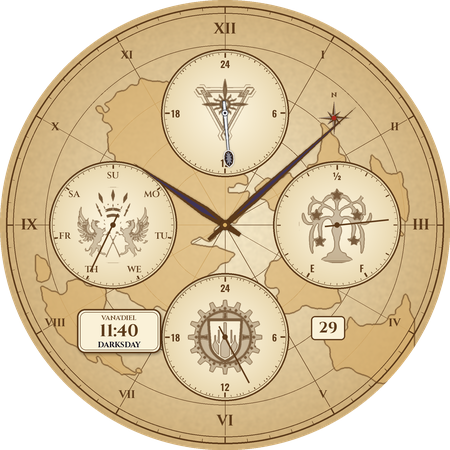
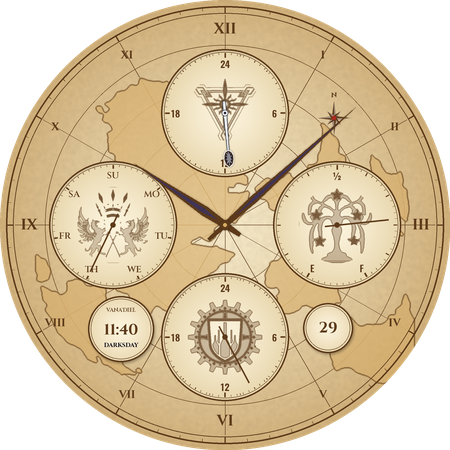
Watch face: rename the parchment style to Canvas; round medallions
The 7:30 Vana'diel time box was a rectangle crowding the sub-dials;
Vana'diel time and weekday now sit in a round parchment medallion that
matches the dials, mirrored by a medallion round the 4:30 date.

Claude-Session: https://claude.ai/code/session_01DhcV9kAg7FMXufVfZQP7Ta

Changed region(s): [[0.1556, 0.6533, 0.3733, 0.8089], [0.6533, 0.6533, 0.8089, 0.8089]]

diff --git a/ffxi-watchface/tools/generate_assets.py b/ffxi-watchface/tools/generate_assets.py
@@ -728,7 +728,8 @@ def colorize(img, tones):
     return Image.fromarray(np.dstack([rgb, a[..., 3]]).astype(np.uint8), 'RGBA')
 
 
-VANA_BOX = (77, 309, 161, 353)     # 7:30 cartouche: Vana'diel time and weekday
+VANA_MEDAL = (121, 329, 33)        # 7:30 medallion (x, y, r): Vana'diel time and weekday
+DATE_MEDAL_R = 25                   # matching medallion round the 4:30 date
 
 
 def parchment(size):
@@ -756,16 +757,6 @@ def compass_rose(img, cx, cy, r, color):
         d.polygon([tip, side_r, (cx, cy)], fill=tuple(int(c * 0.6 + 255 * 0.4) for c in color) + (255,))
     d.ellipse([cx - r * 0.12, cy - r * 0.12, cx + r * 0.12, cy + r * 0.12], fill=(170, 40, 30, 255))
     text_c(d, polar(r + s(6), 0, cx, cy), 'N', font(FONT_SERIF, 7), color)
-
-
-def cartouche(img, box, fill, line):
-    x0, y0, x1, y1 = (s(v) for v in box)
-    m = Image.new('L', img.size, 0)
-    ImageDraw.Draw(m).rounded_rectangle([x0, y0, x1, y1], radius=s(8), fill=255)
-    drop_shadow(img, m, blur=1.4, alpha=0.35)
-    d = ImageDraw.Draw(img)
-    d.rounded_rectangle([x0, y0, x1, y1], radius=s(8), fill=fill + (255,), outline=line + (255,), width=round(s(1.4)))
-    d.rounded_rectangle([x0 + s(3), y0 + s(3), x1 - s(3), y1 - s(3)], radius=s(6), outline=line + (255,), width=round(s(0.6)))
 
 
 def parchment_subdial(img, key, centre, scale, ambient=False):
@@ -797,6 +788,17 @@ def parchment_subdial(img, key, centre, scale, ambient=False):
     draw_scale(d, scale, cx, cy, R - s(1), ink)
 
 
+def medallion(img, x, y, r):
+    """Small round parchment medallion with a double ink rim, matching the sub-dials."""
+    cx, cy, R = s(x), s(y), s(r)
+    m = circle_mask(img.size, cx, cy, R)
+    drop_shadow(img, m, blur=1.2, alpha=0.3)
+    fill_mask(img, m, radial_gradient(img.size, (252, 244, 222), (234, 216, 176), cx=cx, cy=cy, r=R))
+    d = ImageDraw.Draw(img)
+    for rr, w in ((R, 1.4), (R - s(2.8), 0.5)):
+        d.ellipse([cx - rr, cy - rr, cx + rr, cy + rr], outline=INK + (255,), width=round(s(w)))
+
+
 def make_vana_dial(ambient=False):
     size = (s(N), s(N))
     if ambient:
@@ -826,15 +828,12 @@ def make_vana_dial(ambient=False):
     for pos in POSITIONS:
         parchment_subdial(img, LAYOUT[pos], POSITIONS[pos], POSITION_SCALE[pos], ambient)
     parchment_subdial(img, 'jeuno', VANA_POS, '24h', ambient)
-    if not ambient:   # date window and the Vana'diel cartouche (text drawn live)
-        x, y = s(DATE_POS[0]), s(DATE_POS[1])
-        w, h = s(DATE_SIZE[0]), s(DATE_SIZE[1])
+    if not ambient:   # round parchment medallions: Vana'diel time at 7:30, date at 4:30 (text drawn live)
+        medallion(img, *VANA_MEDAL)
+        medallion(img, *DATE_POS, DATE_MEDAL_R)
         d = ImageDraw.Draw(img)
-        d.rounded_rectangle([x - w / 2, y - h / 2, x + w / 2, y + h / 2], radius=s(4), fill=(250, 241, 216, 255),
-                            outline=INK + (255,), width=round(s(1.2)))
-        cartouche(img, VANA_BOX, (250, 241, 216), INK)
-        d = ImageDraw.Draw(img)
-        text_c(d, (s((VANA_BOX[0] + VANA_BOX[2]) / 2), s(VANA_BOX[1] + 9)), "VANA'DIEL", font(FONT_LABEL, 6.5), INK)
+        x, y, r = VANA_MEDAL
+        text_c(d, (s(x), s(y - 19)), "VANA'DIEL", font(FONT_LABEL, 5.5), INK)
     img.putalpha(circle_mask(size, C, C, s(225)))
     return img
 
@@ -1527,9 +1526,9 @@ def preview_vana(dial_hi, hands_hi, caps_hi, hh=10, mm=8, dow=5, day=29, batt=78
     place_vana_hand(img, hands_hi, utc)
     d = ImageDraw.Draw(img)
     text_c(d, (s(DATE_POS[0]), s(DATE_POS[1])), str(day), font(FONT_SERIF, 15), INK)
-    x0, y0, x1, y1 = VANA_BOX
-    text_c(d, (s((x0 + x1) / 2), s(y0 + 22)), f'{vh:02d}:{vm:02d}', font(FONT_SERIF, 17), INK)
-    text_c(d, (s((x0 + x1) / 2), s(y0 + 36)), ELEMENTS[wd][0].upper(), font(FONT_SERIF, 7.5), ELEMENT_TONES[wd][0] if wd != 6 else INK)
+    x, y, r = VANA_MEDAL
+    text_c(d, (s(x), s(y + 1)), f'{vh:02d}:{vm:02d}', font(FONT_SERIF, 15), INK)
+    text_c(d, (s(x), s(y + 16)), ELEMENTS[wd][0].upper(), font(FONT_SERIF, 6), ELEMENT_TONES[wd][0] if wd != 6 else INK)
     place(img, hands_hi[f'hand_hour_vana_{wd}'], f'hand_hour_vana_{wd}', 225, 225, (hh % 12 + mm / 60) * 30)
     place(img, hands_hi[f'hand_minute_vana_{wd}'], f'hand_minute_vana_{wd}', 225, 225, mm * 6)
     cap = caps_hi['cap_vana']
